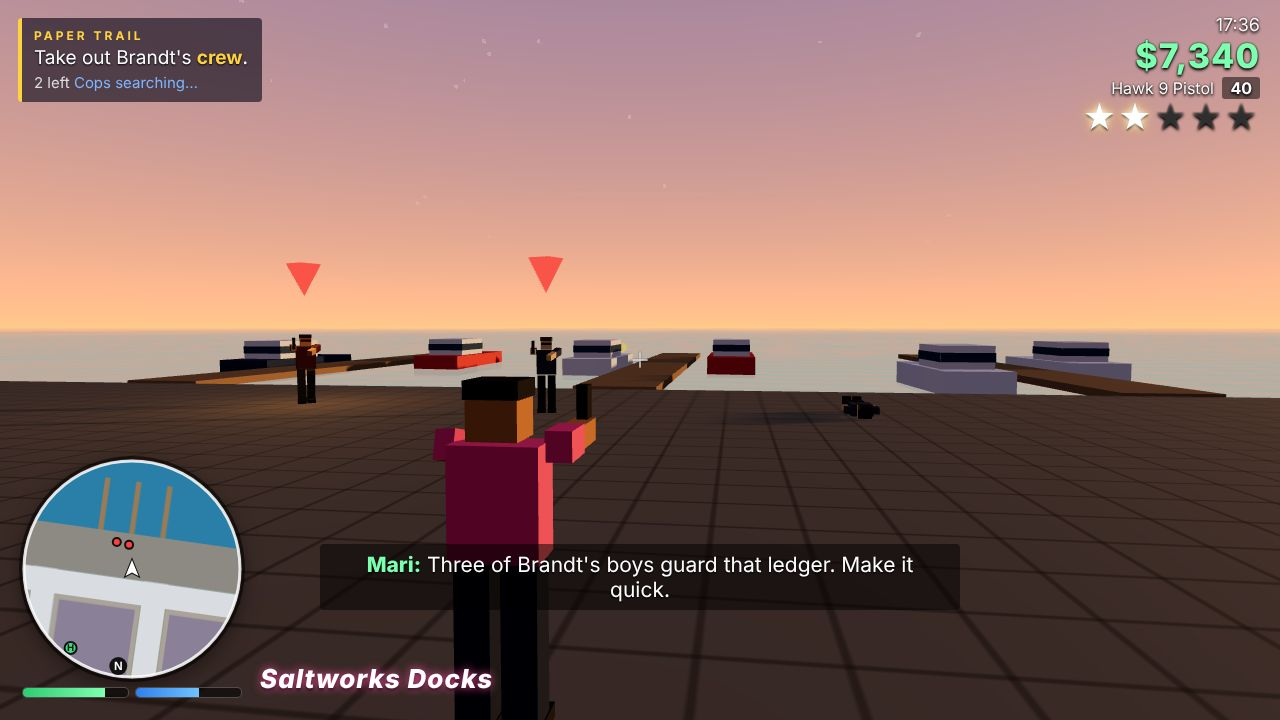
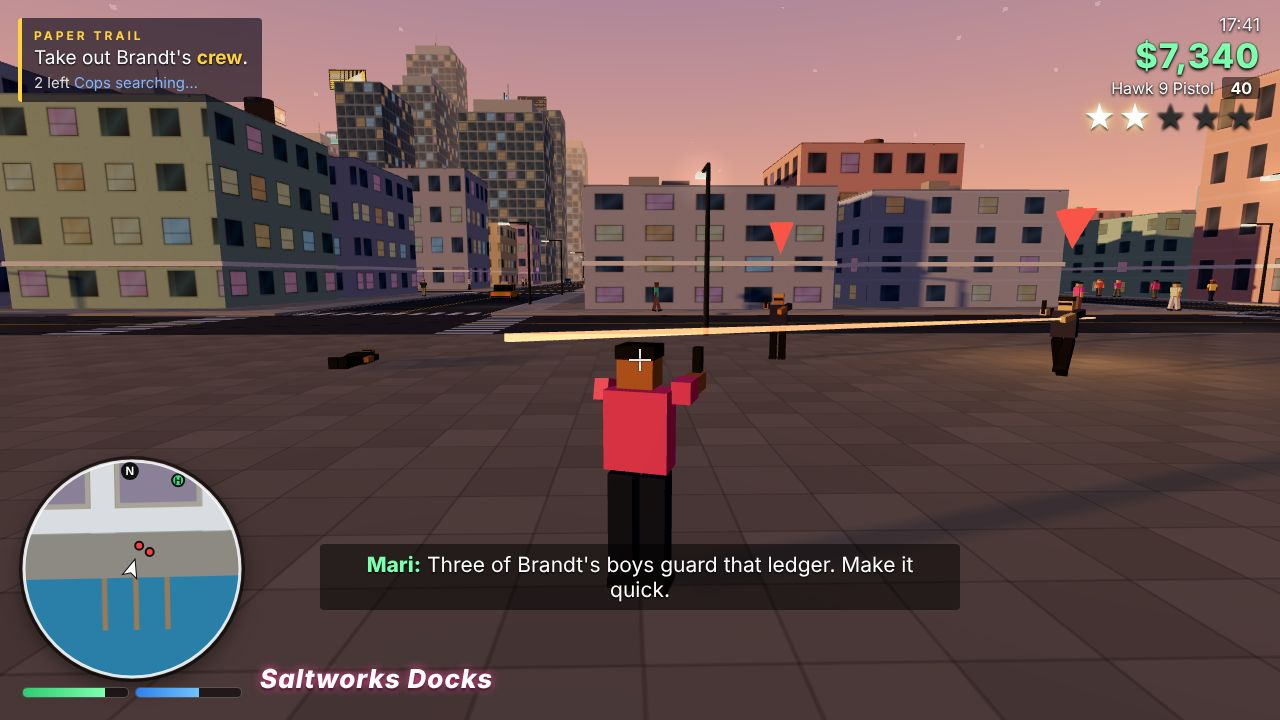
Polish screenshots: beam tracers, brighter asphalt and paving, denser lamps, headlight, staged scenes; add play-test tool
Claude-Session: https://claude.ai/code/session_01Ptu9xu8GQGpvqZFmJZumfW

diff --git a/game/src/shots.js b/game/src/shots.js
@@ -84,24 +84,26 @@ const SCENES = {
     game.hud.toast('Wanted: ~Car alarm tripped~', 'bad');
   },
 
-  /** A night delivery run through the downtown towers, neon and lit windows. */
+  /** An afternoon delivery run toward the beach hotels and the open sea. */
   drive(game) {
-    const laneZ = 3 * 64 + 3.5;
-    startPlay(game, 90, laneZ, Math.PI / 2, 19.35);
+    const laneZ = 2 * 64 + 3.5;
+    startPlay(game, 400, laneZ, Math.PI / 2, 15.8);
     game.progress.missionIndex = 3; game.progress.completed = ['homecoming', 'borrowedShine', 'paperTrail'];
     game.player.money = 11950;
-    const car = game.fleet.spawn('coupe', '#ff70a6', 90, laneZ, Math.PI / 2);
+    clearTrafficNear(game, 430, laneZ, 25);
+    game.traffic.spawnCar(470, laneZ, 10, 60);
+    const car = game.fleet.spawn('coupe', '#ff70a6', 400, laneZ, Math.PI / 2);
     car.velocity.set(20, 0); car.owned = true;
     game.player.enterVehicle(car);
     jumpToMissionStep(game, 'nightShift', 2);
     game.missions.timer = 112; game.missions.cpIndex = 1;
     game.markers.remove(game.missions.stepMarker);
     game.missions.stepMarker = game.markers.add('dropoff', 7 * 64 + 32, 7 * 64 + 4, { radius: 3.5 });
-    game.radio.tune(1);
+    game.radio.tune(2);
     game.autopilot = laneAutopilot('z', laneZ, 1, 24);
     simulate(game, 1.4);
-    game.camera.yaw = car.heading - 0.3;
-    game.camera.pitch = 0.27;
+    game.camera.yaw = car.heading - 0.22;
+    game.camera.pitch = 0.24;
     game.camera.freeLookTimer = 100;
     game.camera.snap();
     game.hud.showRadio(game.radio.stationName);
@@ -110,32 +112,34 @@ const SCENES = {
   /** On foot at Pelican Marina, pistol drawn, Brandt's crew firing back. */
   mission(game) {
     const m = PLACES.marina;
-    const px = m.x - 5; const pz = m.z - 6;
-    startPlay(game, px, pz, 0, 17.6);
-    clearTrafficNear(game, px, pz, 45);
-    game.traffic.enabled = false;
+    const px = m.x - 4; const pz = m.z + 9;
+    startPlay(game, px, pz, Math.PI, 17.7);
+    clearTrafficNear(game, px, pz - 10, 40);
     game.progress.missionIndex = 2; game.progress.completed = ['homecoming', 'borrowedShine'];
     game.player.money = 7340; game.player.armour = 60; game.player.health = 78;
     game.player.giveWeapon('pistol', 41);
     jumpToMissionStep(game, 'paperTrail', 3);
     const goons = game.missions.goons;
-    goons[0].position.set(m.x - 1, 0.1, m.z + 9);
-    goons[1].position.set(m.x + 8, 0.1, m.z + 11);
-    goons[2].position.set(m.x - 9, 0.1, m.z + 7);
+    goons[0].position.set(m.x + 1, 0.1, m.z - 6);
+    goons[1].position.set(m.x + 9, 0.1, m.z - 3);
+    goons[2].position.set(m.x - 11, 0.1, m.z - 2);
     goons[2].hit(200, game.player.position);
     for (const gn of goons) gn.hostile = true;
     game.input.aiming = true;
+    game.camera.yaw = Math.PI;
     simulate(game, 0.8);
+    for (const [k, gn] of goons.entries()) if (k < 2) gn.position.set(k ? m.x + 9 : m.x + 1, 0.1, k ? m.z - 3 : m.z - 6);
     const target = goons[0].position;
-    game.camera.yaw = Math.atan2(target.x - game.player.position.x, target.z - game.player.position.z) - 0.12;
-    game.camera.pitch = 0.16;
-    game.camera.snap();
+    game.camera.yaw = Math.atan2(target.x - game.player.position.x, target.z - game.player.position.z) + 0.3;
     game.player.aiming = false; // keep the aiming pose but frame the wider third-person view
-    game.camera.pitch = 0.22;
-    game.player.facing = game.camera.yaw + 0.12;
+    game.camera.pitch = 0.2;
+    game.camera.snap();
+    game.player.facing = game.camera.yaw - 0.3;
     game.player.syncModel();
     for (let k = 0; k < 10; k += 1) game.render(FIXED_STEP);
     game.combat.playerShoot(WEAPONS.pistol);
+    game.player.facing = game.camera.yaw - 0.3;
+    game.player.syncModel();
     game.combat.npcShoot(goons[1].position, game.player.position, 0, 7);
     game.player.weapons.pistol -= 1;
     game.hud.dialogue([['mari', 'Three of Brandt\'s boys guard that ledger. Make it quick.']]);

diff --git a/game/src/effects.js b/game/src/effects.js
@@ -84,17 +84,16 @@ export class EffectsSystem {
     this.lastSkid = new Map();
   }
 
+  /** Bullet tracers are thin glowing beams (stretched boxes), pooled and faded out. */
   buildTracers(scene) {
-    this.tracerPos = new Float32Array(MAX_TRACERS * 2 * 3);
-    this.tracerCol = new Float32Array(MAX_TRACERS * 2 * 3);
-    const geo = new THREE.BufferGeometry();
-    geo.setAttribute('position', new THREE.BufferAttribute(this.tracerPos, 3));
-    geo.setAttribute('color', new THREE.BufferAttribute(this.tracerCol, 3));
-    this.tracerGeo = geo;
-    this.tracerLife = new Float32Array(MAX_TRACERS);
-    this.tracers = new THREE.LineSegments(geo, new THREE.LineBasicMaterial({ vertexColors: true, transparent: true, blending: THREE.AdditiveBlending, depthWrite: false }));
-    this.tracers.frustumCulled = false;
-    scene.add(this.tracers);
+    const geo = new THREE.BoxGeometry(0.05, 0.05, 1).translate(0, 0, 0.5);
+    this.tracerPool = [];
+    for (let k = 0; k < MAX_TRACERS; k += 1) {
+      const m = new THREE.Mesh(geo, new THREE.MeshBasicMaterial({ color: '#ffe08a', transparent: true, blending: THREE.AdditiveBlending, depthWrite: false, toneMapped: false }));
+      m.visible = false; m.life = 0;
+      scene.add(m);
+      this.tracerPool.push(m);
+    }
     this.tracerCursor = 0;
   }
 
@@ -117,12 +116,14 @@ export class EffectsSystem {
   endSkid(key) { this.lastSkid.delete(key); }
 
   tracer(from, to, color = '#ffe08a') {
-    const k = this.tracerCursor; this.tracerCursor = (this.tracerCursor + 1) % MAX_TRACERS;
-    this.tracerPos.set([from.x, from.y, from.z, to.x, to.y, to.z], k * 6);
-    const c = this.tmpColor.set(color);
-    this.tracerCol.set([c.r, c.g, c.b, c.r * 0.3, c.g * 0.3, c.b * 0.3], k * 6);
-    this.tracerLife[k] = 0.09;
-    this.tracerGeo.attributes.position.needsUpdate = true;
+    const m = this.tracerPool[this.tracerCursor];
+    this.tracerCursor = (this.tracerCursor + 1) % MAX_TRACERS;
+    m.position.copy(from);
+    m.lookAt(to);
+    m.scale.set(1, 1, from.distanceTo(to));
+    m.material.color.set(color);
+    m.material.opacity = 1;
+    m.visible = true; m.life = 0.12;
   }
 
   muzzleFlash(pos) {
@@ -183,12 +184,11 @@ export class EffectsSystem {
     this.clock += dt;
     this.glow.update(dt); this.smoke.update(dt); this.big.update(dt);
     if (this.flashTimer > 0) { this.flashTimer -= dt; if (this.flashTimer <= 0) this.flash.intensity = 0; }
-    let changed = false;
-    for (let k = 0; k < MAX_TRACERS; k += 1) {
-      if (this.tracerLife[k] <= 0) continue;
-      this.tracerLife[k] -= dt;
-      if (this.tracerLife[k] <= 0) { this.tracerCol.fill(0, k * 6, k * 6 + 6); changed = true; }
+    for (const m of this.tracerPool) {
+      if (!m.visible) continue;
+      m.life -= dt;
+      m.material.opacity = Math.max(0, m.life / 0.12);
+      if (m.life <= 0) m.visible = false;
     }
-    if (changed) this.tracerGeo.attributes.color.needsUpdate = true;
   }
 }

diff --git a/game/src/dayNight.js b/game/src/dayNight.js
@@ -4,7 +4,7 @@
 import * as THREE from 'three';
 
 const KEYS = [
-  { h: 0, top: '#060a1c', hor: '#1b2346', sun: '#8aa0ff', sunI: 0.12, hemiS: '#2a3a6a', hemiG: '#141020', hemiI: 0.35, fog: '#131a33', night: 1 },
+  { h: 0, top: '#060a1c', hor: '#1b2346', sun: '#8aa0ff', sunI: 0.2, hemiS: '#34467e', hemiG: '#161226', hemiI: 0.5, fog: '#131a33', night: 1 },
   { h: 5.2, top: '#101a3a', hor: '#3a3358', sun: '#8aa0ff', sunI: 0.15, hemiS: '#3a4a7a', hemiG: '#1a1420', hemiI: 0.4, fog: '#262a48', night: 1 },
   { h: 6.4, top: '#3a5fa8', hor: '#ff9e7a', sun: '#ffb07a', sunI: 1.2, hemiS: '#9fb5e0', hemiG: '#5a4a40', hemiI: 0.7, fog: '#d9a79a', night: 0.3 },
   { h: 9, top: '#2f78d6', hor: '#bfe1ff', sun: '#fff1d6', sunI: 2.6, hemiS: '#bcdcff', hemiG: '#7a6a50', hemiI: 1.0, fog: '#c4dcef', night: 0 },
@@ -12,8 +12,8 @@ const KEYS = [
   { h: 17.2, top: '#3b68b8', hor: '#ffc98a', sun: '#ffcf8a', sunI: 2.5, hemiS: '#c5c8ea', hemiG: '#7a5a40', hemiI: 0.95, fog: '#f2c9a0', night: 0 },
   { h: 18.6, top: '#3a3f8f', hor: '#ff7a4a', sun: '#ff8a4a', sunI: 1.9, hemiS: '#b49ad0', hemiG: '#6a4038', hemiI: 0.8, fog: '#f08a68', night: 0.35 },
   { h: 19.6, top: '#1e2160', hor: '#c8508a', sun: '#ff6a6a', sunI: 0.6, hemiS: '#6a5aa0', hemiG: '#2a1a30', hemiI: 0.55, fog: '#6a3a6a', night: 0.8 },
-  { h: 21, top: '#080c22', hor: '#24264f', sun: '#8aa0ff', sunI: 0.15, hemiS: '#2a3a6a', hemiG: '#141020', hemiI: 0.38, fog: '#161c38', night: 1 },
-  { h: 24, top: '#060a1c', hor: '#1b2346', sun: '#8aa0ff', sunI: 0.12, hemiS: '#2a3a6a', hemiG: '#141020', hemiI: 0.35, fog: '#131a33', night: 1 },
+  { h: 21, top: '#0a0f2c', hor: '#2c2a5c', sun: '#8aa0ff', sunI: 0.22, hemiS: '#3a4c88', hemiG: '#1c1428', hemiI: 0.55, fog: '#161c38', night: 1 },
+  { h: 24, top: '#060a1c', hor: '#1b2346', sun: '#8aa0ff', sunI: 0.2, hemiS: '#34467e', hemiG: '#161226', hemiI: 0.5, fog: '#131a33', night: 1 },
 ];
 
 const tmpA = new THREE.Color(); const tmpB = new THREE.Color();
@@ -91,7 +91,7 @@ export class DayNightCycle {
     s.shallowColor.value.set('#29c3c9').multiplyScalar(1 - this.nightAmount * 0.8);
 
     const n = this.nightAmount;
-    this.lamps.poolMat.opacity = n * 0.55;
+    this.lamps.poolMat.opacity = n * 0.8;
     this.lamps.glowMat.opacity = n * 0.9;
     this.buildingMaterial.emissiveIntensity = n * 1.1;
   }

diff --git a/game/src/textures.js b/game/src/textures.js
@@ -77,9 +77,9 @@ export function paintFacadeTextures() {
 export function paintAsphaltTexture() {
   const [c, g] = canvas(256, 256);
   const rand = createRng(5);
-  g.fillStyle = '#3a3d42'; g.fillRect(0, 0, 256, 256);
+  g.fillStyle = '#4c4f55'; g.fillRect(0, 0, 256, 256);
   for (let i = 0; i < 9000; i += 1) {
-    const v = rand.int(40, 90);
+    const v = rand.int(55, 110);
     g.fillStyle = `rgba(${v},${v},${v + 4},0.35)`;
     g.fillRect(rand.range(0, 256), rand.range(0, 256), 1.5, 1.5);
   }
@@ -106,12 +106,20 @@ export function paintGroundTexture(base, speck, seed) {
 }
 
 export function paintPavingTexture() {
-  const [c, g] = canvas(128, 128);
-  g.fillStyle = '#c9c1b4'; g.fillRect(0, 0, 128, 128);
-  g.strokeStyle = 'rgba(90,80,70,0.35)'; g.lineWidth = 2;
-  for (let i = 0; i <= 128; i += 32) {
-    g.beginPath(); g.moveTo(i, 0); g.lineTo(i, 128); g.stroke();
-    g.beginPath(); g.moveTo(0, i); g.lineTo(128, i); g.stroke();
+  const [c, g] = canvas(256, 256);
+  const rand = createRng(19);
+  g.fillStyle = '#d6cfc3'; g.fillRect(0, 0, 256, 256);
+  // slightly varied slabs, then faint joints between them
+  for (let x = 0; x < 256; x += 64) {
+    for (let y = 0; y < 256; y += 64) {
+      const v = rand.int(-10, 10);
+      g.fillStyle = `rgb(${214 + v},${207 + v},${195 + v})`; g.fillRect(x, y, 64, 64);
+    }
+  }
+  g.strokeStyle = 'rgba(110,100,90,0.22)'; g.lineWidth = 2;
+  for (let i = 0; i <= 256; i += 64) {
+    g.beginPath(); g.moveTo(i, 0); g.lineTo(i, 256); g.stroke();
+    g.beginPath(); g.moveTo(0, i); g.lineTo(256, i); g.stroke();
   }
   return toTexture(c);
 }

diff --git a/game/src/game.js b/game/src/game.js
@@ -77,6 +77,9 @@ export class Game {
       if (level > before) { this.hud.toast(`Wanted: ${this.wanted.lastCrime}`, 'bad'); }
       else if (level === 0 && before > 0) { this.hud.toast('You lost the cops.', 'good'); }
     };
+    // one real headlight beam rides on the player's car after dusk
+    this.headlight = new THREE.SpotLight('#fff1cc', 0, 60, 0.5, 0.5, 1.2);
+    this.scene.add(this.headlight, this.headlight.target);
     this.resize();
     window.addEventListener('resize', () => this.resize());
   }
@@ -409,9 +412,21 @@ export class Game {
     this.cameraObj.fov = 55; this.cameraObj.updateProjectionMatrix();
   }
 
+  /** Aim the headlight beam down the road ahead of the player's car at night. */
+  updateHeadlight() {
+    const v = this.player.vehicle;
+    const night = this.dayNight.nightAmount;
+    if (!v || v.destroyed || night < 0.2) { this.headlight.intensity = 0; return; }
+    const f = v.forward;
+    this.headlight.position.set(v.position.x + f.x * 2.2, 0.9, v.position.z + f.z * 2.2);
+    this.headlight.target.position.set(v.position.x + f.x * 20, 0, v.position.z + f.z * 20);
+    this.headlight.intensity = 60 * night;
+  }
+
   /** Camera, HUD, minimap and music: once per rendered frame. */
   render(realDt) {
     const p = this.player;
+    this.updateHeadlight();
     if (this.state === 'play' || this.state === 'defeat' || this.state === 'paused') {
       this.camera.update(Math.min(realDt, 0.05), p.worldPosition, {
         inVehicle: p.inVehicle, heading: p.inVehicle ? p.vehicle.heading : p.facing,

diff --git a/game/src/cityMeshes.js b/game/src/cityMeshes.js
@@ -107,7 +107,7 @@ export function buildBlocks(scene) {
   }
   // the harbor quay along the south edge
   slabs.addBox((BEACH_X - 40) / 2, 0.05, (HARBOR_Z + HARBOR_WATER_Z) / 2, BEACH_X + 40, 0.1, HARBOR_WATER_Z - HARBOR_Z, new THREE.Color('#9a958c'), { skipBottom: true });
-  tops.addFlatQuad((BEACH_X - 40) / 2, 0.104, (HARBOR_Z + HARBOR_WATER_Z) / 2, BEACH_X + 40, HARBOR_WATER_Z - HARBOR_Z, new THREE.Color('#a8a296'));
+  tops.addFlatQuad((BEACH_X - 40) / 2, 0.104, (HARBOR_Z + HARBOR_WATER_Z) / 2, BEACH_X + 40, HARBOR_WATER_Z - HARBOR_Z, new THREE.Color('#c4bcae'));
   const slabMesh = new THREE.Mesh(slabs.build(), new THREE.MeshStandardMaterial({ vertexColors: true, roughness: 0.9 }));
   const paving = paintPavingTexture();
   const topMesh = new THREE.Mesh(tops.build(), new THREE.MeshStandardMaterial({ map: paving, vertexColors: true, roughness: 0.95 }));

diff --git a/game/src/cityLayout.js b/game/src/cityLayout.js
@@ -147,11 +147,11 @@ export function planCity(seed = 11) {
   // street lamps along every road, palms along Coral Parade and the beach
   for (let i = 0; i <= CITY_COLS; i += 1) {
     for (let j = 0; j < CITY_ROWS; j += 1) {
-      lamps.push({ x: i * B + HALF_ROAD + 0.6, z: j * B + B / 2, rotY: Math.PI });
+      for (const f of [0.3, 0.7]) lamps.push({ x: i * B + HALF_ROAD + 0.6, z: j * B + B * f, rotY: Math.PI });
     }
   }
   for (let j = 0; j <= CITY_ROWS; j += 1) {
-    for (let i = 0; i < CITY_COLS; i += 1) lamps.push({ x: i * B + B / 2, z: j * B + HALF_ROAD + 0.6, rotY: -Math.PI / 2 });
+    for (let i = 0; i < CITY_COLS; i += 1) for (const f of [0.3, 0.7]) lamps.push({ x: i * B + B * f, z: j * B + HALF_ROAD + 0.6, rotY: -Math.PI / 2 });
   }
   for (let z = 6; z < HARBOR_Z; z += 14) {
     trees.push({ x: BEACH_X + 3, z, kind: 'palm' });

diff --git a/game/src/props.js b/game/src/props.js
@@ -79,7 +79,7 @@ export function buildLamps(scene, plan) {
     const hx = l.x + ax * 2.0; const hz = l.z + az * 2.0;
     heads.addGeometry(head, trs(hx, 6.9, hz, 0, ax ? Math.PI / 2 : 0, 0), '#fff2c4');
     glowPositions.push(hx, 6.75, hz);
-    pools.addFlatQuad(hx, 0.03, hz, 9, 9, new THREE.Color('#ffb966'), 0, true);
+    pools.addFlatQuad(hx, 0.03, hz, 13, 13, new THREE.Color('#ffb966'), 0, true);
   }
   const poleMesh = new THREE.Mesh(poles.build(), new THREE.MeshStandardMaterial({ vertexColors: true, roughness: 0.6, metalness: 0.4 }));
   poleMesh.castShadow = true;
